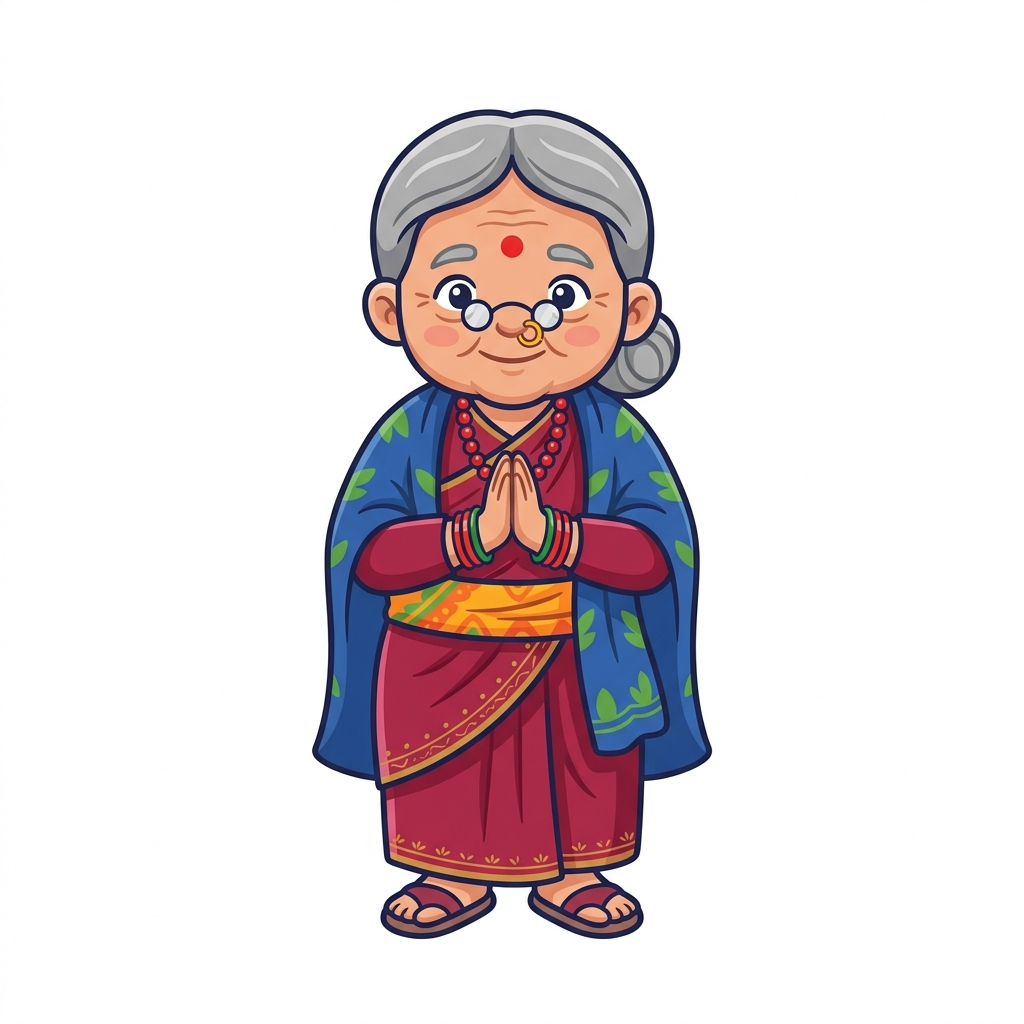
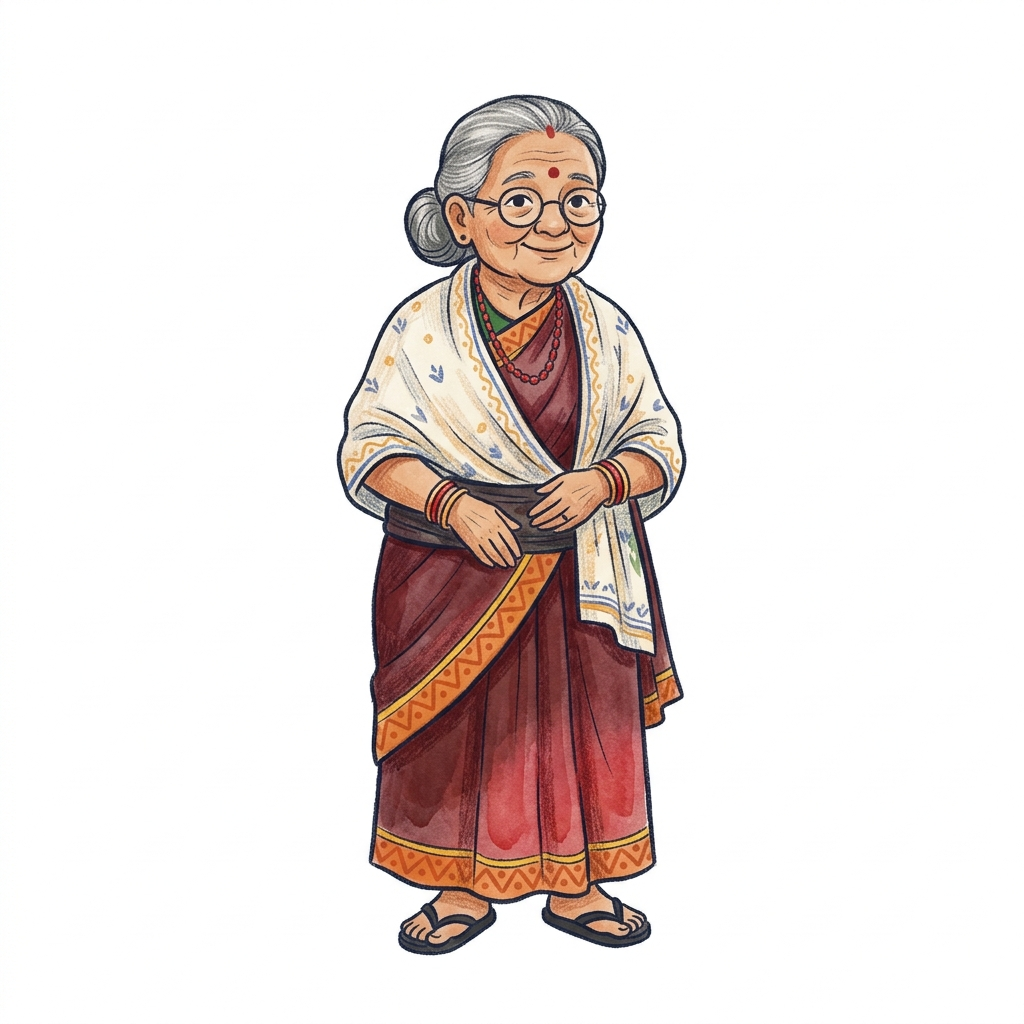
Day 1 storybook pictures: 8 Pandu poses (incl. tea and bike) and 11 cast sheets
Claude-Session: https://claude.ai/code/session_01A6cqvukmGzNfd7ELHZfxac

Changed region(s): [[0.2812, 0.0938, 0.7188, 0.9375]]

diff --git a/public/img-manifest.js b/public/img-manifest.js
@@ -19,13 +19,15 @@ window.IMG = {
  "li-respect-family": "img/li-respect-family.webp?v=422b5c61",
  "li-rooms-house": "img/li-rooms-house.webp?v=f5dba8b9",
  "li-what-i-have": "img/li-what-i-have.webp?v=a50dc168",
- "pandu-cheer": "img/pandu-cheer.webp?v=0bad2ef9",
- "pandu-listen": "img/pandu-listen.webp?v=786646b7",
+ "pandu-bike": "img/pandu-bike.webp?v=f0282905",
+ "pandu-cheer": "img/pandu-cheer.webp?v=57682c46",
+ "pandu-listen": "img/pandu-listen.webp?v=f27c6c63",
  "pandu-namaste": "img/pandu-namaste.webp?v=9ec85141",
- "pandu-oops": "img/pandu-oops.webp?v=a790221c",
- "pandu-sleep": "img/pandu-sleep.webp?v=1b3789bc",
- "pandu-think": "img/pandu-think.webp?v=be1ce7c4",
- "pandu-wave": "img/pandu-wave.webp?v=8553136f",
+ "pandu-oops": "img/pandu-oops.webp?v=6169ab9a",
+ "pandu-sleep": "img/pandu-sleep.webp?v=15fc3552",
+ "pandu-tea": "img/pandu-tea.webp?v=bbacbde0",
+ "pandu-think": "img/pandu-think.webp?v=dccd958a",
+ "pandu-wave": "img/pandu-wave.webp?v=1e6617d2",
  "st-chatter": "img/st-chatter.webp?v=c7c60e4c",
  "st-explorer": "img/st-explorer.webp?v=c47e1507",
  "st-festival": "img/st-festival.webp?v=cce733e0",
@@ -112,4 +114,4 @@ window.IMG = {
  "w-younger-brother": "img/w-younger-brother.webp?v=3e9ad2f1",
  "w-younger-sister": "img/w-younger-sister.webp?v=56ac37fb"
 };
-window.IMG_ADDED = {"av-danphe":"2026-11-06","av-elephant":"2026-11-06","av-monkey":"2026-11-06","av-redpanda":"2026-11-06","av-rhino":"2026-11-06","av-snowleopard":"2026-11-06","av-tiger":"2026-11-06","av-yak":"2026-11-06","li-body":"2026-11-07","li-clothes":"2026-11-07","li-daily-routines":"2026-11-06","li-feelings-needs":"2026-11-07","li-greet":"2026-11-06","li-home-sentences":"2026-11-06","li-house-objects":"2026-11-06","li-kitchen-tummy":"2026-11-06","li-respect-family":"2026-11-06","li-rooms-house":"2026-11-06","li-what-i-have":"2026-11-07","pandu-cheer":"2026-11-06","pandu-listen":"2026-11-06","pandu-namaste":"2026-11-08","pandu-oops":"2026-11-06","pandu-sleep":"2026-11-06","pandu-think":"2026-11-06","pandu-wave":"2026-11-06","st-chatter":"2026-11-06","st-explorer":"2026-11-06","st-festival":"2026-11-06","st-home":"2026-11-06","st-letters":"2026-11-06","st-me":"2026-11-06","st-pandu":"2026-11-06","st-play":"2026-11-06","st-school":"2026-11-06","w-apple":"2026-11-06","w-bag":"2026-11-06","w-banana":"2026-11-06","w-bathroom":"2026-11-06","w-bed":"2026-11-06","w-bedroom":"2026-11-06","w-book":"2026-11-06","w-brush-teeth":"2026-11-06","w-chair":"2026-11-06","w-clothes":"2026-11-07","w-come-here":"2026-11-06","w-dad":"2026-11-06","w-door":"2026-11-06","w-ear":"2026-11-07","w-eyes":"2026-11-07","w-finger":"2026-11-07","w-flatbread":"2026-11-06","w-glasses":"2026-11-07","w-go-to-sleep":"2026-11-06","w-good-night":"2026-11-06","w-grandma":"2026-11-06","w-grandpa":"2026-11-06","w-hair":"2026-11-07","w-hand":"2026-11-07","w-happy":"2026-11-07","w-hat":"2026-11-07","w-head":"2026-11-07","w-hello":"2026-11-06","w-hot":"2026-11-06","w-i-am-full":"2026-11-06","w-i-am-hungry":"2026-11-06","w-i-am-scared":"2026-11-07","w-i-feel-cold":"2026-11-07","w-i-feel-hot":"2026-11-07","w-it-hurts":"2026-11-07","w-it-is-yummy":"2026-11-06","w-jacket":"2026-11-07","w-kitchen":"2026-11-06","w-leg":"2026-11-07","w-lentil-soup":"2026-11-06","w-let-s-play-outside":"2026-11-06","w-light":"2026-11-06","w-living-room":"2026-11-06","w-milk":"2026-11-06","w-mom":"2026-11-06","w-momo":"2026-11-06","w-mouth":"2026-11-07","w-no":"2026-11-06","w-nose":"2026-11-07","w-older-brother":"2026-11-06","w-older-sister":"2026-11-06","w-put-on-shoes":"2026-11-06","w-read-a-book":"2026-11-06","w-rice":"2026-11-06","w-sad":"2026-11-07","w-see-you-again":"2026-11-06","w-shoes":"2026-11-07","w-sleepy":"2026-11-07","w-slippers":"2026-11-07","w-socks":"2026-11-07","w-spoon":"2026-11-06","w-take-off":"2026-11-07","w-teeth":"2026-11-07","w-thank-you":"2026-11-06","w-thirsty":"2026-11-07","w-toy":"2026-11-06","w-tummy":"2026-11-07","w-wake-up":"2026-11-06","w-wash-hands":"2026-11-06","w-water":"2026-11-06","w-window":"2026-11-06","w-yard-courtyard":"2026-11-06","w-yes":"2026-11-06","w-yes-polite":"2026-11-06","w-younger-brother":"2026-11-06","w-younger-sister":"2026-11-06"};
+window.IMG_ADDED = {"av-danphe":"2026-11-06","av-elephant":"2026-11-06","av-monkey":"2026-11-06","av-redpanda":"2026-11-06","av-rhino":"2026-11-06","av-snowleopard":"2026-11-06","av-tiger":"2026-11-06","av-yak":"2026-11-06","li-body":"2026-11-07","li-clothes":"2026-11-07","li-daily-routines":"2026-11-06","li-feelings-needs":"2026-11-07","li-greet":"2026-11-06","li-home-sentences":"2026-11-06","li-house-objects":"2026-11-06","li-kitchen-tummy":"2026-11-06","li-respect-family":"2026-11-06","li-rooms-house":"2026-11-06","li-what-i-have":"2026-11-07","pandu-bike":"2026-11-08","pandu-cheer":"2026-11-08","pandu-listen":"2026-11-08","pandu-namaste":"2026-11-08","pandu-oops":"2026-11-08","pandu-sleep":"2026-11-08","pandu-tea":"2026-11-08","pandu-think":"2026-11-08","pandu-wave":"2026-11-08","st-chatter":"2026-11-06","st-explorer":"2026-11-06","st-festival":"2026-11-06","st-home":"2026-11-06","st-letters":"2026-11-06","st-me":"2026-11-06","st-pandu":"2026-11-06","st-play":"2026-11-06","st-school":"2026-11-06","w-apple":"2026-11-06","w-bag":"2026-11-06","w-banana":"2026-11-06","w-bathroom":"2026-11-06","w-bed":"2026-11-06","w-bedroom":"2026-11-06","w-book":"2026-11-06","w-brush-teeth":"2026-11-06","w-chair":"2026-11-06","w-clothes":"2026-11-07","w-come-here":"2026-11-06","w-dad":"2026-11-06","w-door":"2026-11-06","w-ear":"2026-11-07","w-eyes":"2026-11-07","w-finger":"2026-11-07","w-flatbread":"2026-11-06","w-glasses":"2026-11-07","w-go-to-sleep":"2026-11-06","w-good-night":"2026-11-06","w-grandma":"2026-11-06","w-grandpa":"2026-11-06","w-hair":"2026-11-07","w-hand":"2026-11-07","w-happy":"2026-11-07","w-hat":"2026-11-07","w-head":"2026-11-07","w-hello":"2026-11-06","w-hot":"2026-11-06","w-i-am-full":"2026-11-06","w-i-am-hungry":"2026-11-06","w-i-am-scared":"2026-11-07","w-i-feel-cold":"2026-11-07","w-i-feel-hot":"2026-11-07","w-it-hurts":"2026-11-07","w-it-is-yummy":"2026-11-06","w-jacket":"2026-11-07","w-kitchen":"2026-11-06","w-leg":"2026-11-07","w-lentil-soup":"2026-11-06","w-let-s-play-outside":"2026-11-06","w-light":"2026-11-06","w-living-room":"2026-11-06","w-milk":"2026-11-06","w-mom":"2026-11-06","w-momo":"2026-11-06","w-mouth":"2026-11-07","w-no":"2026-11-06","w-nose":"2026-11-07","w-older-brother":"2026-11-06","w-older-sister":"2026-11-06","w-put-on-shoes":"2026-11-06","w-read-a-book":"2026-11-06","w-rice":"2026-11-06","w-sad":"2026-11-07","w-see-you-again":"2026-11-06","w-shoes":"2026-11-07","w-sleepy":"2026-11-07","w-slippers":"2026-11-07","w-socks":"2026-11-07","w-spoon":"2026-11-06","w-take-off":"2026-11-07","w-teeth":"2026-11-07","w-thank-you":"2026-11-06","w-thirsty":"2026-11-07","w-toy":"2026-11-06","w-tummy":"2026-11-07","w-wake-up":"2026-11-06","w-wash-hands":"2026-11-06","w-water":"2026-11-06","w-window":"2026-11-06","w-yard-courtyard":"2026-11-06","w-yes":"2026-11-06","w-yes-polite":"2026-11-06","w-younger-brother":"2026-11-06","w-younger-sister":"2026-11-06"};

diff --git a/docs/image-prompts-by-day/README.md b/docs/image-prompts-by-day/README.md
@@ -4,7 +4,7 @@ New storybook sketch style from 2026-11-08 (see pandu-namaste). Done counts pict
 
 | Day | What | Pictures | Done |
 |---|---|---|---|
-| 1 | [Pandu and the family (cast)](day-01.md) | 19 | 0/19 |
+| 1 | [Pandu and the family (cast)](day-01.md) | 19 | 2/19 |
 | 2 | [Map circles, chapter stickers and player pictures](day-02.md) | 59 | 0/59 |
 | 3 | [Chapter 1: मेरो घर (Around the home)](day-03.md) | 49 | 0/49 |
 | 4 | [Chapter 2: म र मेरो शरीर (All about me)](day-04.md) | 27 | 0/27 |

diff --git a/docs/image-prompts-by-day/day-01.md b/docs/image-prompts-by-day/day-01.md
@@ -17,8 +17,8 @@
 - [ ] pandu-oops.png
 - [ ] pandu-listen.png
 - [ ] pandu-sleep.png
-- [ ] pandu-tea.png
-- [ ] pandu-bike.png
+- [x] pandu-tea.png
+- [x] pandu-bike.png
 - [ ] cast-maya.png
 - [ ] cast-arjun.png
 - [ ] cast-aama.png
